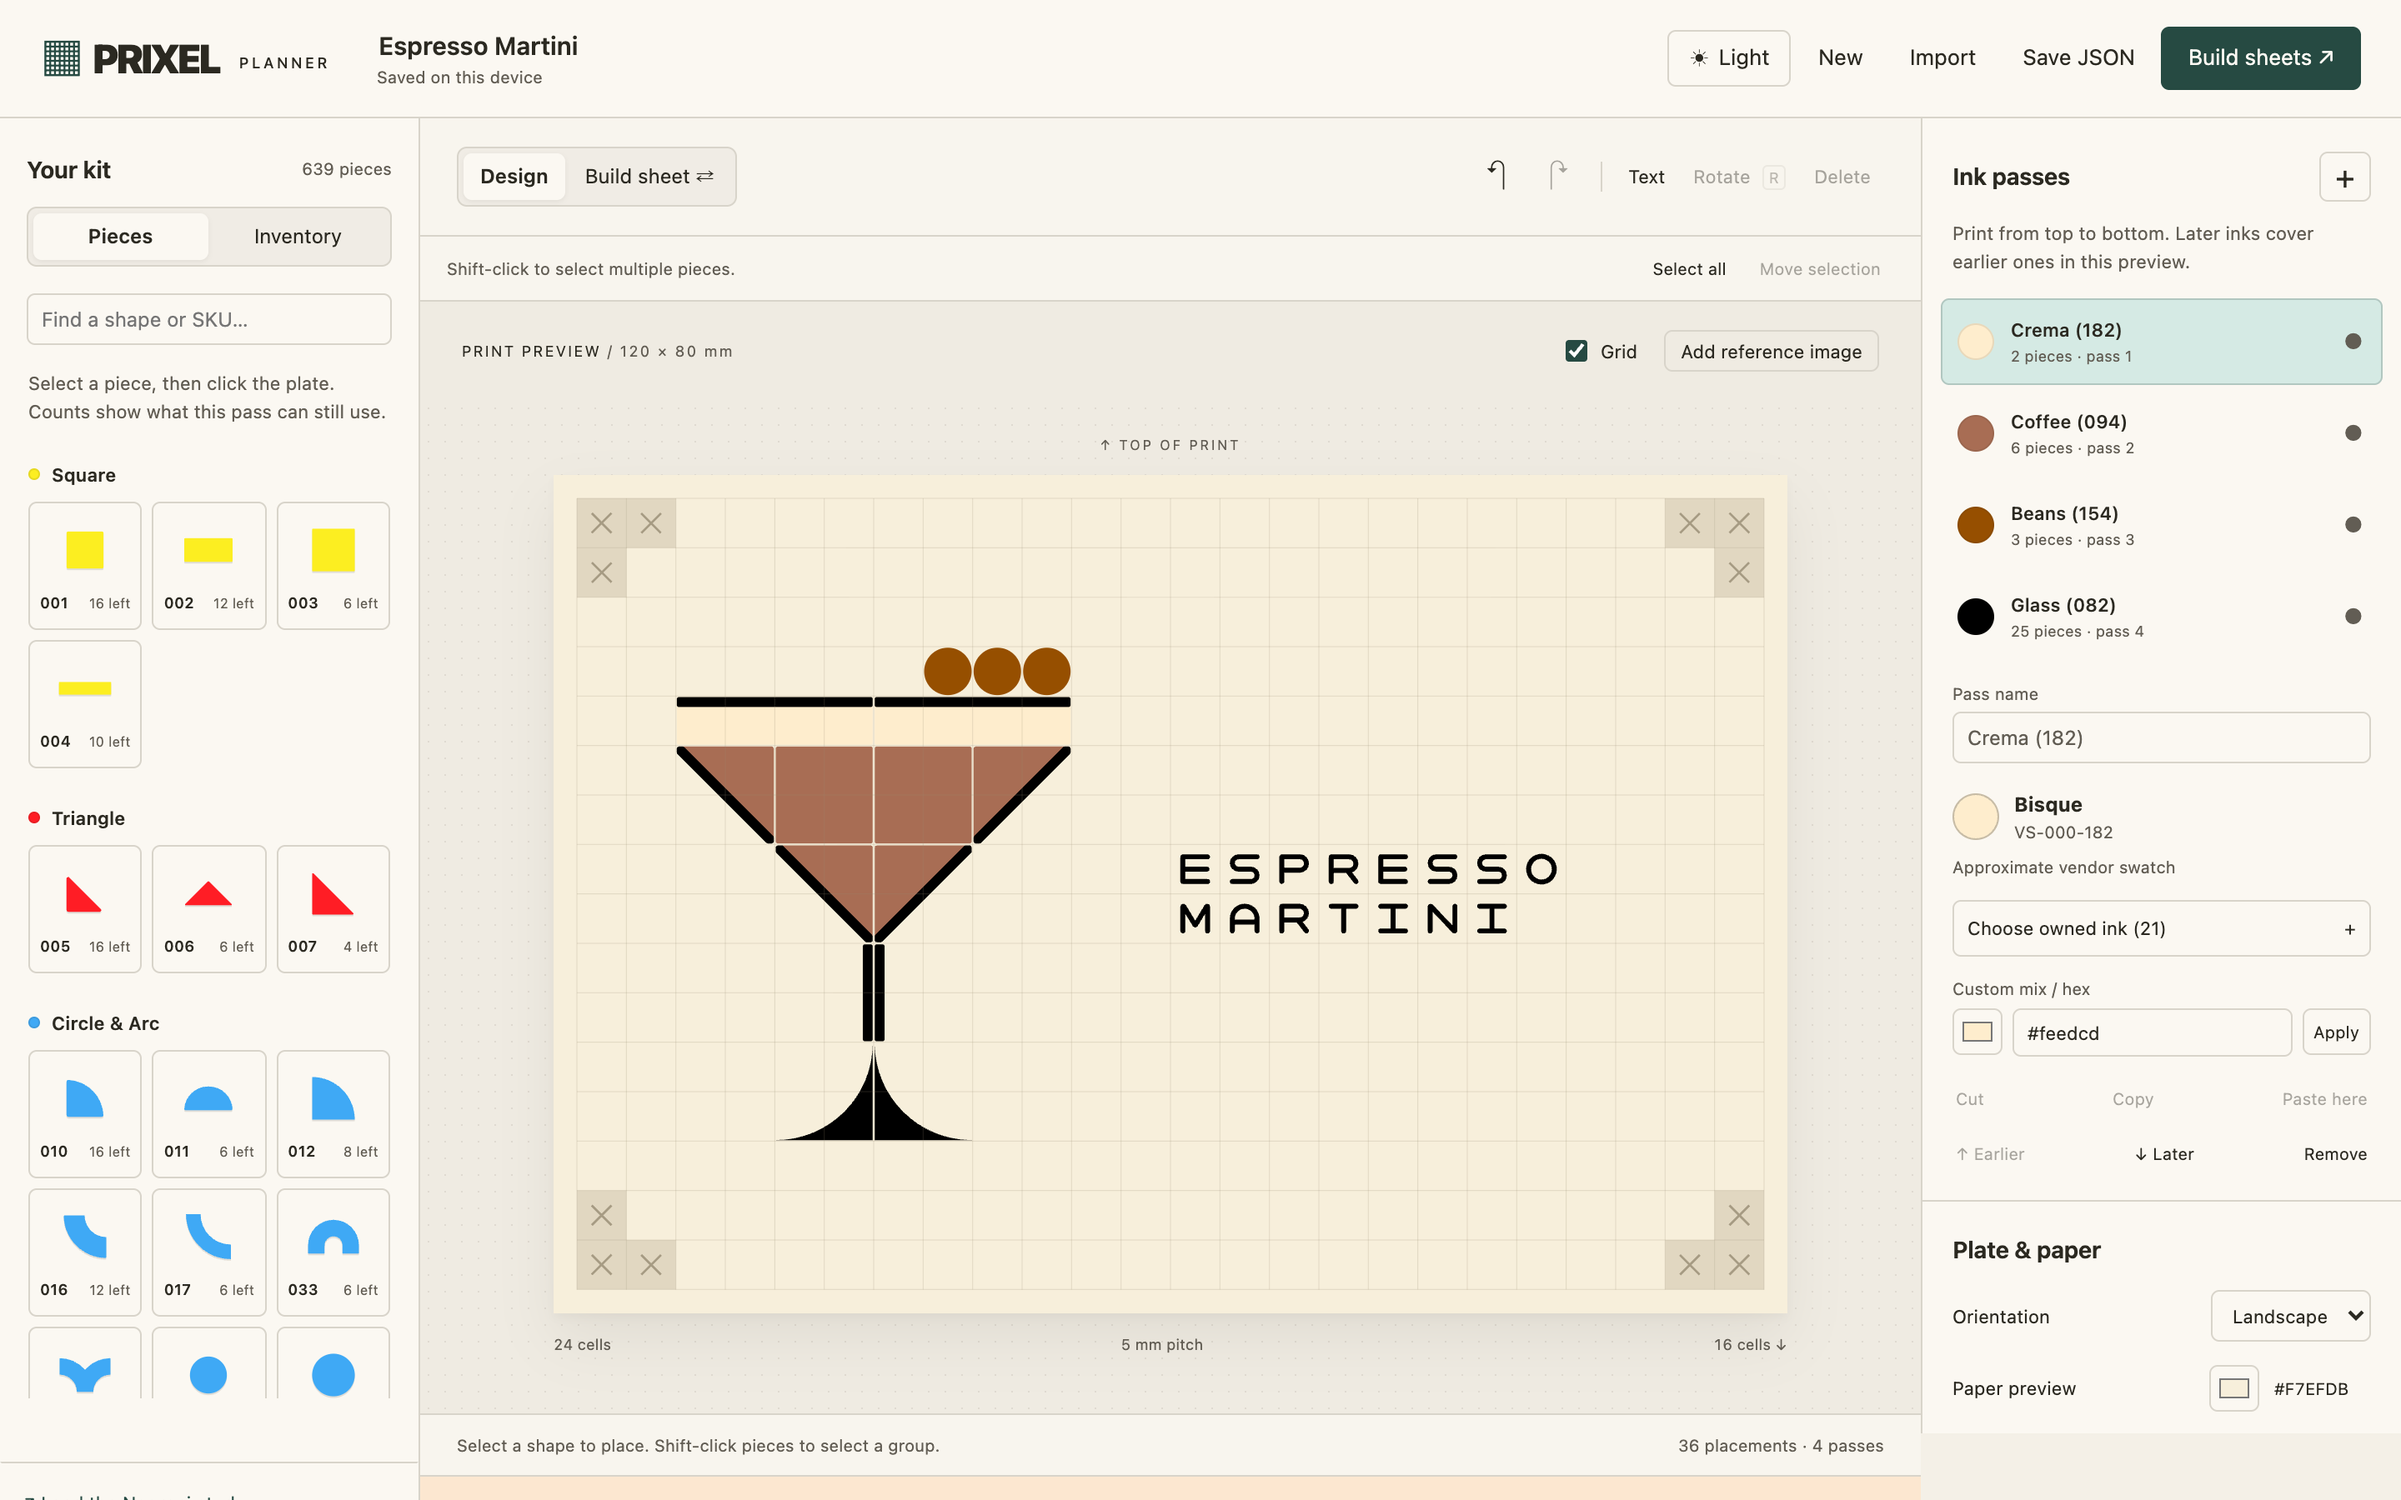
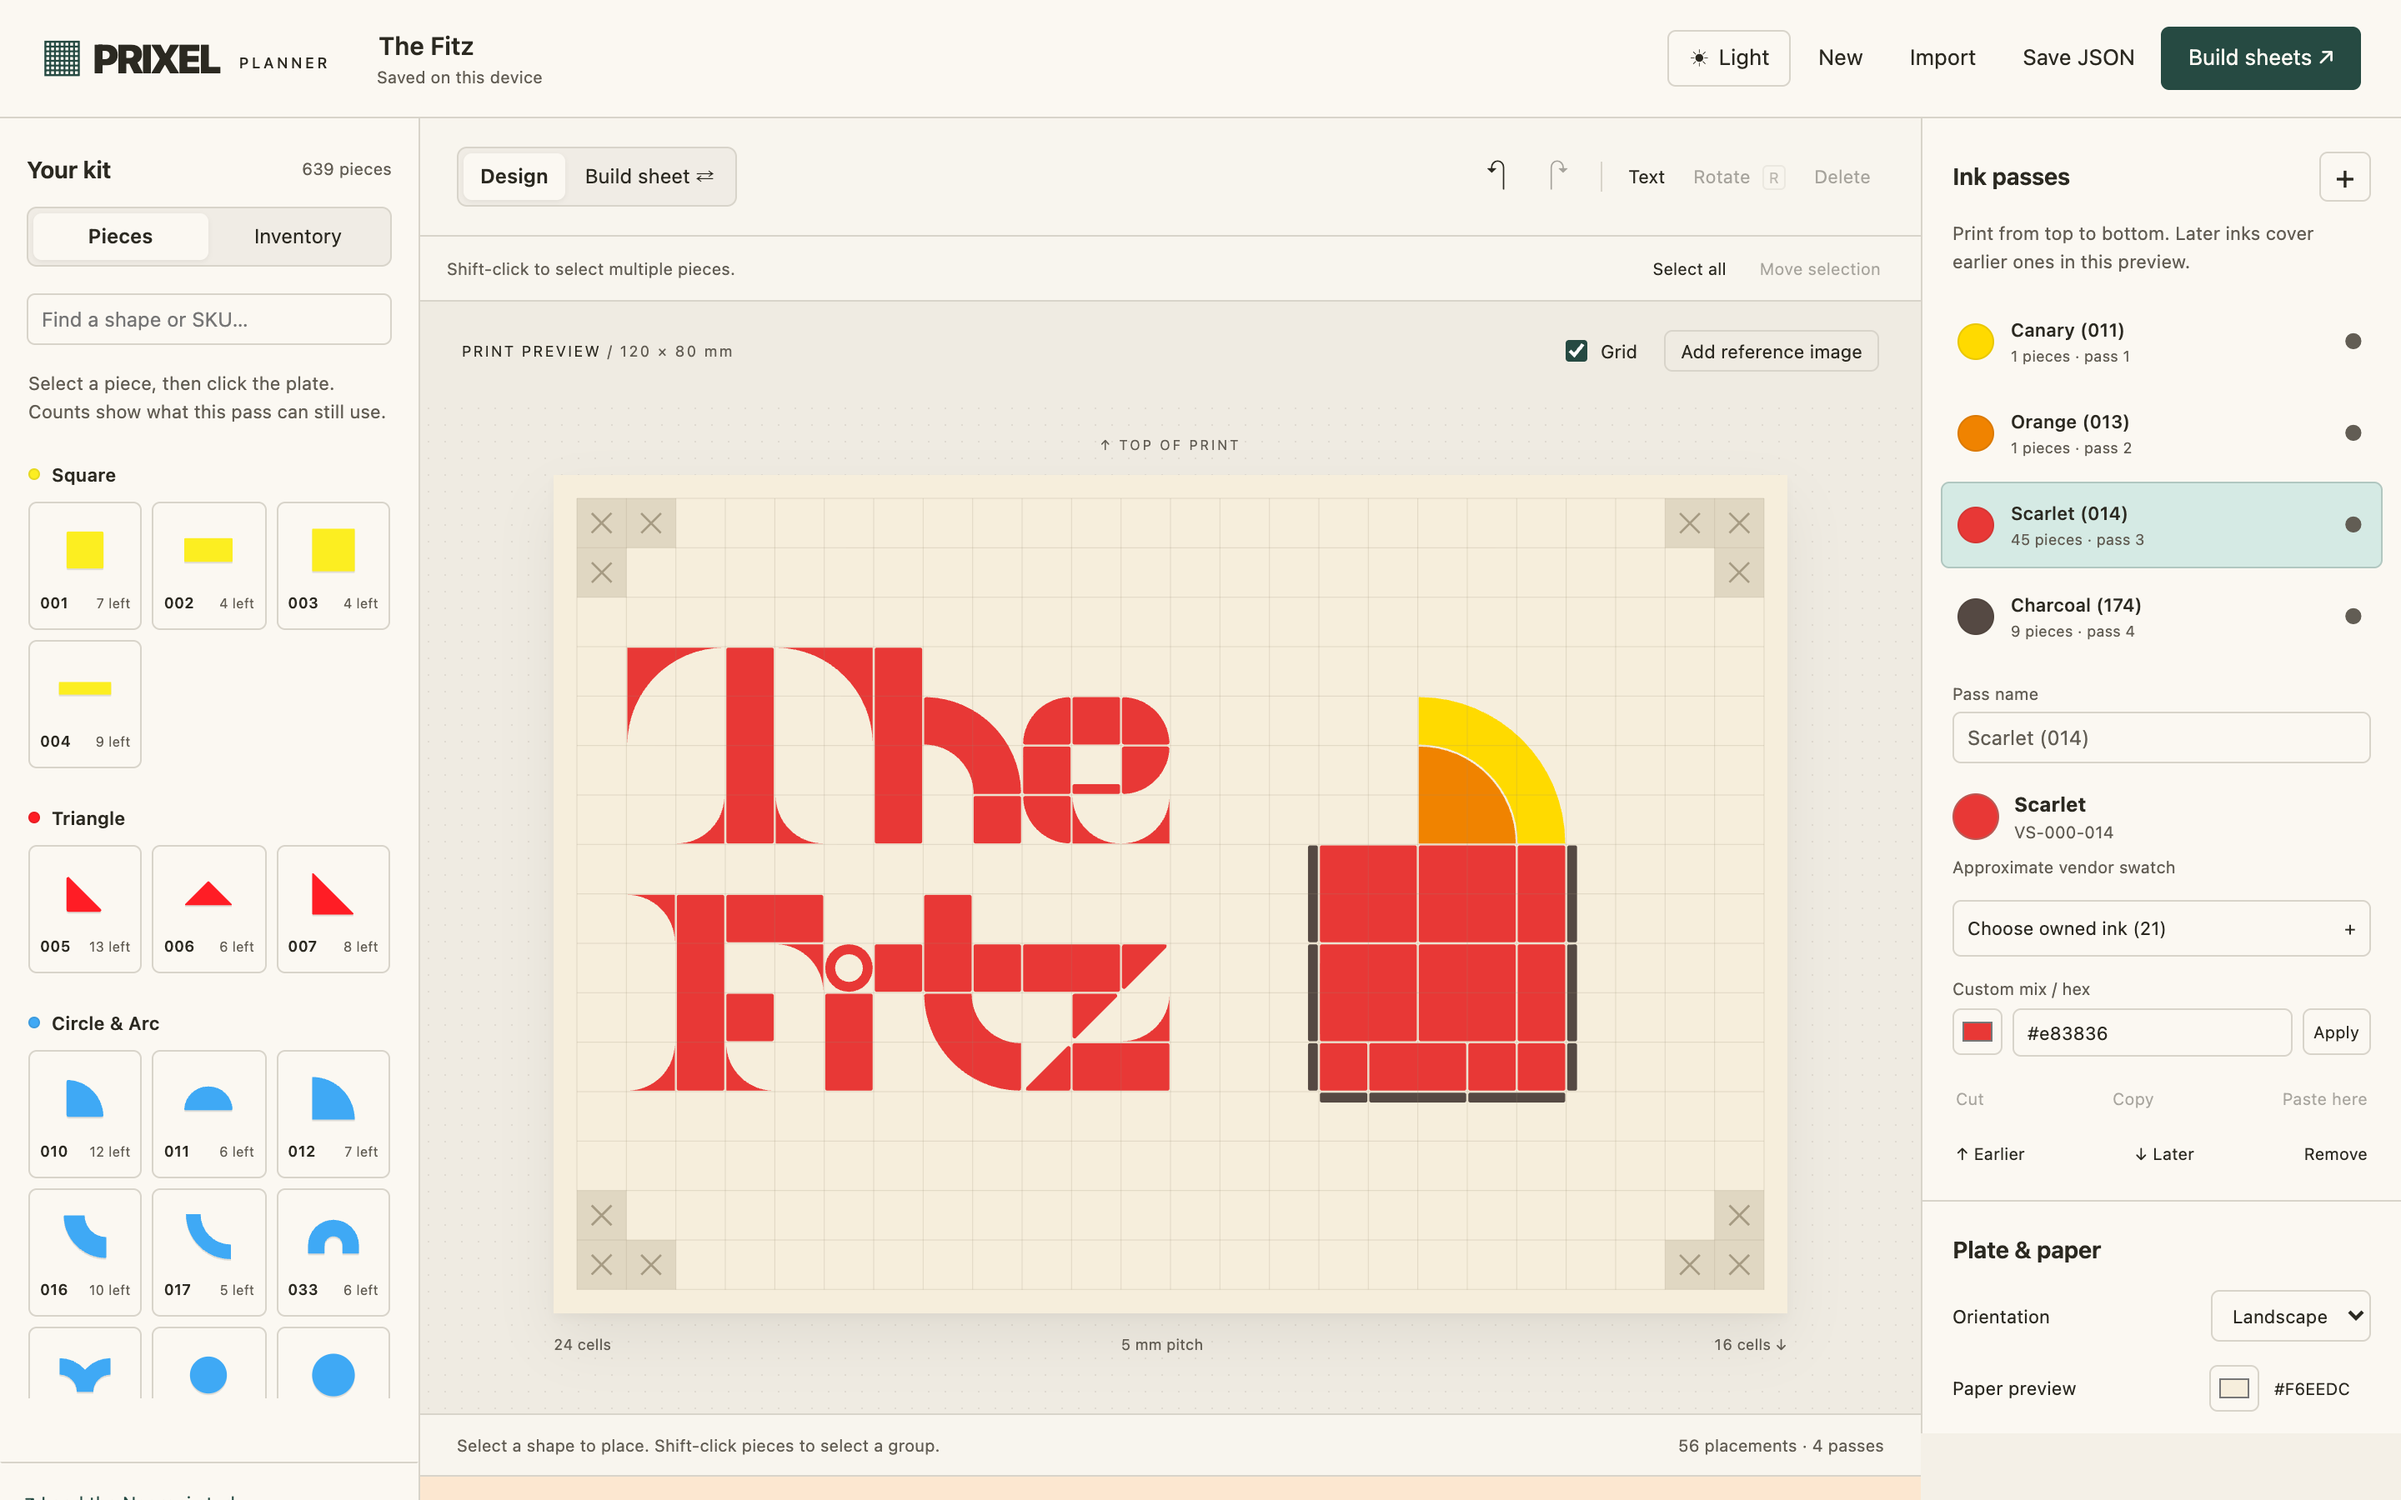
Lead the README with The Fitz
The hero screenshot is now "The Fitz" wordmark beside the Negroni glass — the
design the planner was first built to make — in place of the Espresso Martini.

diff --git a/README.md b/README.md
@@ -7,7 +7,7 @@ pieces you own, and print mirrored build sheets for setting the plate.
 Made by a PRIXEL owner, shared with PRIXEL's blessing. Not an official PRIXEL
 product.
 
-![An Espresso Martini laid out in the planner: four ink passes, the piece library on the left, and the plate preview in the middle](docs/screenshots/design.png)
+!["The Fitz" wordmark and a Negroni glass laid out in the planner: four ink passes, the piece library on the left, and the plate preview in the middle](docs/screenshots/design.png)
 
 <table>
 <tr>
